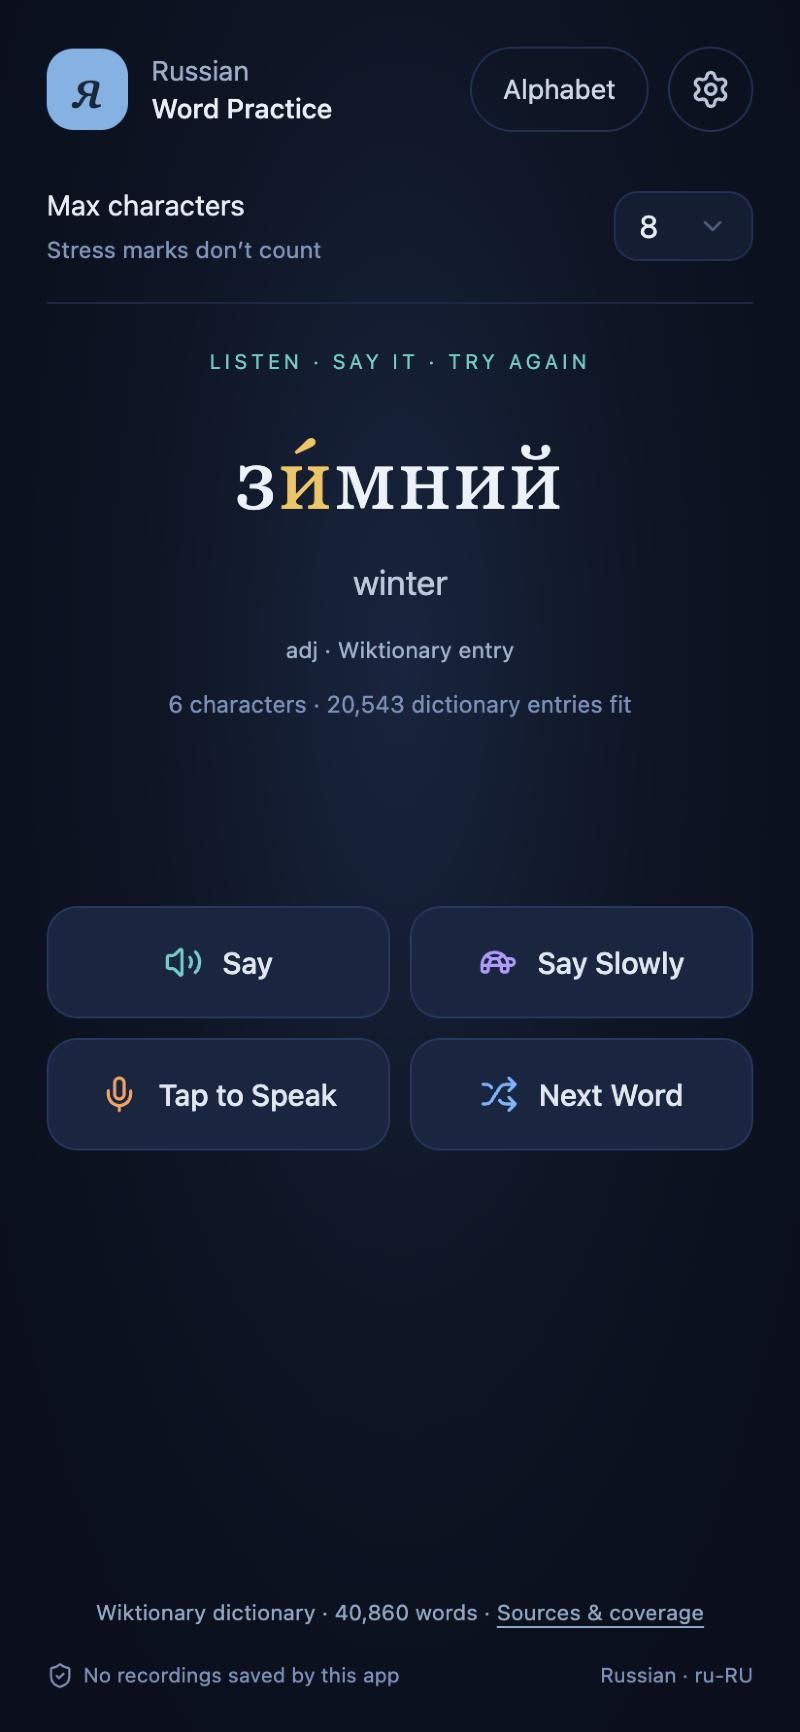
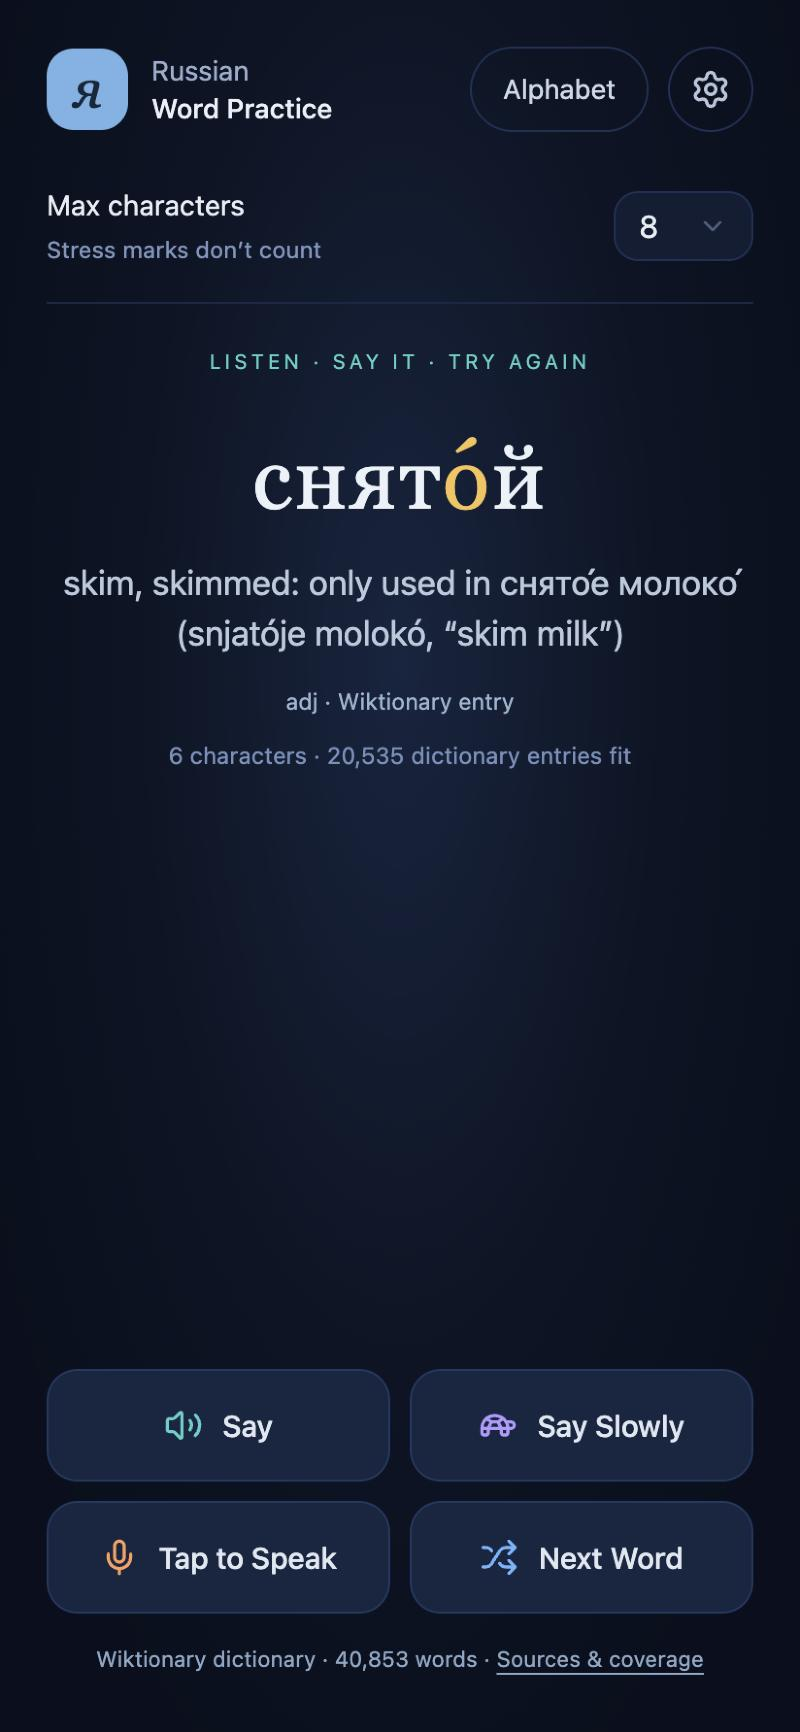
Anchor the buttons at the bottom and remove the footer row
- Say, Say Slowly, Tap to Speak and Next Word stay at the bottom, just
  above the Wiktionary source line, however long the word or message.
- Remove the "No recordings saved by this app · Russian · ru-RU" row and
  its Cancel button; Tap to Speak (second tap), Next Word and the 20 s
  Azure timeout already cover cancelling.
- README practice screenshot retaken (снято́й).

diff --git a/app/practice.tsx b/app/practice.tsx
@@ -1,6 +1,6 @@
 'use client';
 import { useEffect,useRef,useState } from 'react';
-import { Volume2, Mic, Settings, X, Turtle, ShieldCheck, Shuffle } from 'lucide-react';
+import { Volume2, Mic, Settings, Turtle, Shuffle } from 'lucide-react';
 import { alphabet } from '../lib/alphabet.mjs';
 import { Dialog,DialogContent,DialogHeader,DialogTitle,DialogDescription } from '@/components/ui/dialog';
 import { Select,SelectContent,SelectItem,SelectTrigger,SelectValue } from '@/components/ui/select';
@@ -86,12 +86,11 @@ export default function Practice(){
  async function save(e:React.FormEvent){e.preventDefault();if(saving||!config.setupReady)return;setSaving(true);setMessage('');try{const value=key.trim()||keyRef.current;if(!validKey(value))throw new Error('Enter a valid Azure Speech key.');if(!consent)throw new Error('Approve direct Azure requests to continue.');saveRememberedKey(browserStorage(),value,remember,enable);keyRef.current=value;setKey('');setConfig({configured:true,enabled:enable,setupReady:true,remembered:remember});setSettings(false);setMessage(!enable?'Key ready on this device. Azure calls remain disabled.':remember?'Setup saved on this device. You won’t need to enter it again.':'Direct Azure calls enabled for this session.');}catch(e:any){setMessage(e.message||'Browser storage is unavailable. Leave Remember unchecked.');}finally{setSaving(false);}}
  function disconnect(){cancel();keyRef.current='';setKey('');setConsent(false);setEnable(false);setConfig({configured:false,enabled:false,setupReady:true,remembered:false});try{saveRememberedKey(browserStorage(),'',false);setRemember(true);setMessage('Key forgotten on this device. Azure requests already sent may still finish.');setSettings(false);}catch{setMessage('Key cleared from memory. Browser storage removal failed; clear this site’s stored data to remove the saved key.');}}
  useEffect(()=>{const mc=(document as any).modelContext;if(!mc?.registerTool)return;const lifecycle=new AbortController();void Promise.resolve(mc.registerTool({name:'read_practice_word',description:'Read the displayed Russian word and its English meaning. Does not record or contact Azure.',inputSchema:{type:'object',properties:{},additionalProperties:false},annotations:{readOnlyHint:true},execute:(input:any)=>{if(!input||Object.keys(input).length)throw new Error('No arguments expected');return {word:word.stress,meaning:word.meaning,maxCharacters:max};}},{signal:lifecycle.signal})).catch(()=>{});return()=>lifecycle.abort();},[word,max]);
- const active=['word-loading','permission','recording','recorded','loading','playback-starting','playback-ready','playing','assessing'].includes(phase);
  return <main className="practice-shell"><header><div className="brand"><span className="brandmark" lang="ru">я</span><span>Russian<br/><strong>Word Practice</strong></span></div><div className="header-actions"><button className="pill-button" disabled={!config.setupReady} onClick={()=>{cancel();setMessage('');setLetters(true);}}>Alphabet</button><button className="icon-button" aria-label="Open Azure setup" disabled={!config.setupReady} onClick={()=>{cancel();setSettings(true);}}><Settings size={21}/></button></div></header>
  <section className="toolbar"><label htmlFor="max">Max characters <span>Stress marks don’t count</span></label><Select value={String(max)} onValueChange={v=>{const n=Number(v);void next(n);}}><SelectTrigger id="max" className="number-select"><SelectValue/></SelectTrigger><SelectContent>{Array.from({length:maxWordLength},(_,i)=>i+1).map(n=><SelectItem key={n} value={String(n)}>{n}</SelectItem>)}</SelectContent></Select></section>
  <section className="word-stage" aria-label="Current practice word"><div className="eyebrow">LISTEN · SAY IT · TRY AGAIN</div><h1 lang="ru" style={{fontSize:`min(4.25rem, ${Math.min(10.8,130/word.length)}vw)`}}>{stressed(word.stress)}</h1><p className="meaning">{word.meaning}</p><a className="dictionary-source" href={word.source} target="_blank" rel="noreferrer">{word.pos} · Wiktionary entry</a><span className="word-count">{word.length} characters · {lengthCounts[String(max) as keyof typeof lengthCounts].toLocaleString()} dictionary entries fit</span></section>
  <section className="feedback" aria-live="polite">{phase==='word-loading'?(dictionaryStatus.startsWith('Whole dictionary ready')?<p/>:<p>{dictionaryStatus}</p>):phase==='recording'?<div className="recording"><span className="pulse"/>{micLive?`Speak now… ${seconds}s / 8s`:'Starting microphone…'}</div>:phase==='assessing'?<p>Checking with Azure…</p>:phase==='loading'?<p>Preparing the Russian voice…</p>:phase==='playback-starting'?<p>Starting audio…</p>:phase==='playing'?<p>Listen to the word</p>:phase==='permission'?<p>Waiting for microphone permission…</p>:result?.kind==='scored'?<div className={`score ${result.accuracy!>=80?'good':result.accuracy!>=60?'fair':'low'}`}><strong>{result.accuracy}<small>/100</small></strong><div>Azure word accuracy<span>{result.lowConfidence?(bluetooth.current?'Azure wasn’t sure what it heard. Bluetooth mics record at phone-call quality; the phone’s own mic works better':'Azure wasn’t sure what it heard, so treat this as rough'):'A practice estimate, not a stress check'}</span></div></div>:<p>{result?.message||message||(config.enabled?'':!config.setupReady?'Restoring your setup…':config.remembered?'Saved key restored. Approve and enable Azure calls once in Settings to finish setup.':config.configured?'Your key is ready. Enable Azure calls for this session in Settings.':'Set up Azure to hear and assess your words.')}</p>}</section>
  <div className="controls">{phase==='playback-ready'&&<button onClick={()=>void playPrepared()}>Play audio</button>}<div className="two"><button className="say" onClick={()=>say()} disabled={!config.setupReady||phase==='assessing'||phase==='word-loading'}><Volume2/>Say</button><button className="slow" onClick={()=>say(true)} disabled={!config.setupReady||phase==='assessing'||phase==='word-loading'}><Turtle/>Say Slowly</button></div><div className="two"><button className={`speak${['permission','recording','recorded'].includes(phase)?' listening':''}`} disabled={!config.setupReady||phase==='assessing'||phase==='word-loading'} onClick={tapSpeak}><Mic/>{phase==='assessing'?'Checking…':['permission','recording','recorded'].includes(phase)?'Tap to Stop':'Tap to Speak'}</button><button className="next" onClick={()=>next()}><Shuffle/>Next Word</button></div></div>
- {dictionaryStatus!=='Whole dictionary ready · saved on this device'&&<p className="dictionary-note" role="status">{dictionaryStatus}</p>}<p className="dictionary-note source-note">Wiktionary dictionary · {dictionarySize.toLocaleString()} words · <a href="/dictionary-sources" target="_blank" rel="noreferrer">Sources &amp; coverage</a></p><footer>{active?<button className="text-button" onClick={()=>{const sent=phase==='assessing',choosing=phase==='word-loading';cancel();setMessage(choosing?'Word selection cancelled.':sent?'Stopped waiting. Azure may already be processing this clip.':'Cancelled. Your clip was discarded.');}}><X size={14}/>Cancel</button>:<span><ShieldCheck size={14}/>No recordings saved by this app</span>}<span>Russian · ru-RU</span></footer>
+ {dictionaryStatus!=='Whole dictionary ready · saved on this device'&&<p className="dictionary-note" role="status">{dictionaryStatus}</p>}<p className="dictionary-note source-note">Wiktionary dictionary · {dictionarySize.toLocaleString()} words · <a href="/dictionary-sources" target="_blank" rel="noreferrer">Sources &amp; coverage</a></p>
  <Dialog open={settings} onOpenChange={v=>{if(!saving){setSettings(v);if(!v)setKey('');}}}><DialogContent className="setup-dialog"><DialogHeader><DialogTitle>Azure Speech setup</DialogTitle><DialogDescription>Your own Azure account · East US</DialogDescription></DialogHeader><form onSubmit={save}><p>Say sends the displayed word to Azure. Tap to Speak records up to 8 seconds of your voice and sends it directly from your browser to Microsoft Azure in East US. Recordings and generated speech stay in memory and are never saved by this app.</p><p className="muted">Azure processes these requests under its own service terms. Russian scores are approximate: they do not identify stress errors or reliably diagnose individual sounds.</p><label className="field">Voice<Select value={voice} onValueChange={setVoice}><SelectTrigger><SelectValue/></SelectTrigger><SelectContent><SelectItem value="Svetlana">Svetlana</SelectItem><SelectItem value="Dmitry">Dmitry</SelectItem></SelectContent></Select></label><p className="muted">Both voices are supported. Dictionary IPA is adapted for Azure; synthesized pronunciations still need listening checks.</p><label className="field">{config.configured?'Replacement Azure Speech key (optional)':'Your Azure Speech key'}<input type="password" value={key} onChange={e=>setKey(e.target.value)} autoComplete="off" spellCheck={false} required={!config.configured} placeholder={config.configured?'Key ready on this device; enter to replace':'Enter your own East US resource key'}/></label><p className="muted">{config.remembered?'Your saved key is ready. You do not need to enter your key again.':config.configured?'Your key is ready for this session. Leave the replacement field blank to keep it.':'Your key never goes to this app’s host. Each person uses their own Azure account.'}</p><p className="muted">Remember keeps your key and these approvals on this browser through reloads and app updates, so you set up once. Without Remember, closing or reloading clears them. Forget key removes both.</p><label className="check"><Checkbox checked={remember} onCheckedChange={v=>setRemember(v===true)}/><span>Remember my key on this device. This stores it in browser storage, readable by this app and anyone with access to this browser profile. Don’t use on a shared device.</span></label><label className="check"><Checkbox checked={consent} onCheckedChange={v=>setConsent(v===true)}/><span>I approve sending my key directly to Microsoft Azure for authentication, and displayed words and submitted recordings to Azure Speech in East US.</span></label><label className="check"><Checkbox checked={enable} onCheckedChange={v=>setEnable(v===true)}/><span>Enable Azure calls. Azure charges may apply; use Azure’s quotas and budgets to cap spending.</span></label><button className="validate full" disabled={!config.setupReady||!consent||(!key&&!config.configured)||saving}>Save setup</button>{config.configured&&<button type="button" className="disconnect" disabled={saving} onClick={disconnect}>Forget key on this device</button>}<p className="muted">No audio or scores are saved. A short-lived Azure token is held in memory and used in Azure’s WebSocket connection URL. Clear the key here or rotate it in Azure to revoke access. Previously sent requests may still finish.</p><p className="setup-message" role="status">{message}</p></form></DialogContent></Dialog><Dialog open={letters} onOpenChange={v=>{setLetters(v);if(!v)cancel();}}><DialogContent className="setup-dialog alphabet-dialog"><DialogHeader><DialogTitle>Russian alphabet</DialogTitle><DialogDescription>33 letters · sounds in IPA</DialogDescription></DialogHeader><p className="alphabet-status" role="status">{phase==='loading'?'Preparing the Russian voice…':phase==='playback-starting'?'Starting audio…':phase==='playing'?'Listen':message||'Tap a letter to hear its sound. Unstressed vowels only occur inside words, so their button plays an example word.'}</p>{phase==='playback-ready'&&<button className="validate full" onClick={()=>void playPrepared()}>Play audio</button>}<ol className="alphabet">{alphabet.map(l=><li key={l.upper} className={l.kind}>{l.sound?<button className="letter" lang="ru" aria-label={`${l.upper} ${l.lower}, ${l.name}: play ${l.sound.ipa}`} disabled={phase==='assessing'} onClick={()=>void say(false,{text:l.lower,ipa:l.sound.say})}>{l.upper}{l.lower}</button>:<span className="letter" lang="ru">{l.upper}{l.lower}</span>}<span className="name" lang="ru">{l.name}</span>{l.sound&&<span className="ipa">{l.kind==='vowel'?'stressed ':''}{l.sound.ipa}</span>}{l.unstressed&&<button className="ipa unstressed" aria-label={`${l.lower} unstressed ${l.unstressed.ipa}: play ${l.unstressed.example}`} disabled={phase==='assessing'} onClick={()=>void say(false,{text:l.unstressed!.text})}>unstressed {l.unstressed.ipa}<span className="example" lang="ru">▶ {l.unstressed.example}</span></button>}{l.note&&<span className="note">{l.note}</span>}</li>)}</ol></DialogContent></Dialog></main>;
 }

diff --git a/app/globals.css b/app/globals.css
@@ -11,7 +11,9 @@
 .controls .speak.listening,.controls .speak.listening:hover{background:#654336;border-color:#ae826d;color:#f6e9e2}
 
 /* Spare height sits above the source line, which stays with the footer at the bottom. */
-.source-note{margin-top:auto;padding-top:12px}
+/* The buttons stay anchored at the bottom, just above the source line, however long the word or message is. */
+.controls{margin-top:auto}
+.source-note{padding-top:12px;padding-bottom:max(4px,env(safe-area-inset-bottom))}
 
 /* Accent palette: each colour marks a function, on top of the navy base. */
 :root{--say:#4fd1c5;--slow:#b39bff;--speak:#ff9f5a;--next:#6cb6ff;--good:#6fdc8c;--fair:#f6c453;--low:#ff7a7a;--vowel:#f6c453;--consonant:#6cb6ff}

diff --git a/README.md b/README.md
@@ -8,7 +8,7 @@ An installable web app (PWA) for practising Russian pronunciation, one word at a
 - **Alphabet**: the 33 letters in standard order with their names and IPA sounds. Tap a letter to hear its sound. Vowels also show their unstressed (reduced) sound, played inside an example word such as ма́ма or молоко́.
 
 <p align="center">
-  <img src="docs/screenshots/practice.jpg" alt="Practice screen showing the word зи́мний (winter) with its stressed vowel highlighted, and the Say, Say Slowly, Tap to Speak and Next Word buttons" width="300">
+  <img src="docs/screenshots/practice.jpg" alt="Practice screen showing the word снято́й (skim, skimmed) with its stressed vowel highlighted, and the Say, Say Slowly, Tap to Speak and Next Word buttons at the bottom" width="300">
   <img src="docs/screenshots/alphabet.jpg" alt="Alphabet panel with vowels in amber and consonants in blue, showing letter names, IPA sounds and unstressed example words" width="300">
 </p>
 
@@ -63,7 +63,7 @@ A static, multi-user Russian pronunciation PWA. React + TypeScript in the browse
 - Alphabet panel: the 33 letters in standard order with names and IPA; tapping a letter plays its sound (consonants with a short neutral vowel, as in "buh"). Vowels also show their unstressed sound, played inside a common example word, because Azure voices an isolated reduced vowel as a full one
 - Generated speech is kept in memory for the session, so replaying a word or letter does not call Azure again
 - When Azure refuses a request, the app shows Azure's own reason (query strings stripped) instead of a generic error
-- Tap to Speak records up to eight seconds of microphone audio. "Speak now" appears once the mic is actually live, which matters for Bluetooth headsets. Recording stops by itself after about 0.8 s of quiet following the word (or on a second tap); the silence is trimmed and the clip submitted. Too-short clips are not sent, and Next/Cancel discard the clip. The audio engine is created after the microphone opens, so a Bluetooth headset that switched to its call profile is already the active device. A Bluetooth headset mic records at phone-call quality, so the app suggests the phone's own mic when Azure is unsure
+- Tap to Speak records up to eight seconds of microphone audio. "Speak now" appears once the mic is actually live, which matters for Bluetooth headsets. Recording stops by itself after about 0.8 s of quiet following the word (or on a second tap); the silence is trimmed and the clip submitted. Too-short clips are not sent, and Next Word discards the clip. The audio engine is created after the microphone opens, so a Bluetooth headset that switched to its call profile is already the active device. A Bluetooth headset mic records at phone-call quality, so the app suggests the phone's own mic when Azure is unsure
 - Conservative Azure pronunciation estimates, not a Russian stress or individual-phoneme diagnosis. The score is shown even when Azure is unsure which word it heard (common for one learner word), marked as rough; if Azure does not answer within 20 seconds, the app says so
 - Installable mobile PWA with a dictionary-only local cache; no persistent audio/score cache or offline speech library
 
